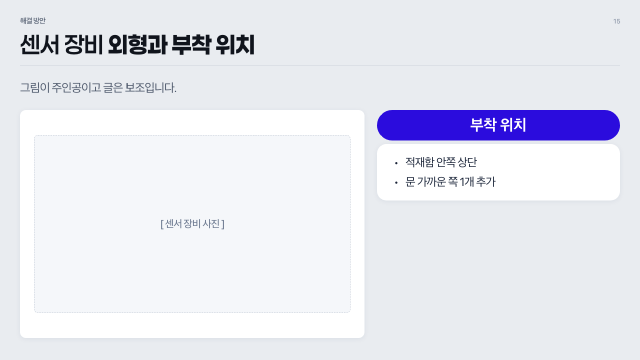
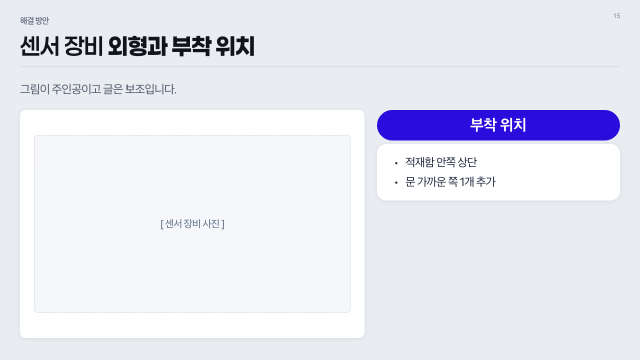
장 번호를 오른쪽 위 모서리(y=22)에 따로 띄움, 아이브로우 15 → 17px·색 한 단계 연하게(--body)

Changed region(s): [[0.0312, 0.0306, 0.4062, 0.1528], [0.0312, 0.2139, 0.2812, 0.275], [0.9375, 0.0306, 0.9688, 0.0611]]

diff --git a/docs/design/index.html b/docs/design/index.html
@@ -335,8 +335,8 @@ tr.dirty .val input{border-color:var(--acc);color:var(--acc)}
 
 .sl-body{background:#E9ECF0}
 .sl-body .top{position:absolute;top:30px;left:var(--pad);right:var(--pad)}
-.sl-body .eyebrow{font-size:var(--eyebrow);color:#4A5568;font-weight:500;display:flex;justify-content:space-between;align-items:baseline}
-.sl-body .eyebrow .pg{font-size:var(--pgno);color:#8B95A7;font-variant-numeric:tabular-nums}
+.sl-body .eyebrow{font-size:var(--eyebrow);color:#515B75;font-weight:500;display:flex;justify-content:space-between;align-items:baseline}
+.sl-body .eyebrow .pg{position:absolute;top:-8px;right:0;font-size:var(--pgno);color:#8B95A7;font-variant-numeric:tabular-nums}
 .sl-body .stitle{font-family:var(--deck-semi);font-weight:400;font-size:var(--stitle);color:#10141C;
   line-height:1.2;margin-top:9px;max-width:1100px;word-break:keep-all}
 .sl-body .stitle b{font-family:var(--deck-xbold);font-weight:400}
@@ -569,7 +569,7 @@ var DEFAULTS={
   density:'dense', k:1,
   primary:'#2B0CDD', secondary:'#5D48FF',
   h0:48,h0l:58.6,h0s:-1, h1:40,h1l:48,h1s:-1, h2:22,h2l:31.8,h2s:-0.2, b2:18,b2l:26.6,b2s:-0.8,
-  eyebrow:15, stitle:46, lead:24, pgno:13,
+  eyebrow:17, stitle:46, lead:24, pgno:13,
   pad:40, safeBottom:44, bodyTop:220,
   rCard:19, rBanner:14, rLabel:8, rPill:999,
   shY:2, shBlur:12, shOp:7,
@@ -759,7 +759,7 @@ function buildSections(){
     {tok:'.eyebrow', name:'아이브로우', sub:'y30 · 섹션 이름 하나만',
       fields:[{key:'eyebrow',unit:'px',min:8,max:40}],
       preview:pvType('배경 및 문제점','--eyebrow','--deck-body',null,'#4A5568')},
-    {tok:'.eyebrow .pgno', name:'쪽 번호', sub:'y30 · 오른쪽 끝',
+    {tok:'.eyebrow .pgno', name:'장 번호', sub:'y22 · 오른쪽 위 모서리 · 몇 번째 장인지',
       preview:pvType('12','--pgno','--deck-body',null,'#8B95A7'),
       fields:[{key:'pgno',unit:'px',min:8,max:40}]},
     {tok:'.stitle', name:'헤드라인', sub:'y61 · Paperlogy 6 SemiBold · 한 줄 한글 34자',
@@ -862,7 +862,7 @@ var FIXED=[
   ['primary-800','#2815B0','진한 단계 · 간지 그라데이션 시작'],['primary-700','#2A14C8','중간 진한 단계'],
   ['primary-600','#2B0CDD','메인'],['primary-400','#5D48FF','보조'],['primary-300','#7B69FF','primary 300'],['primary-200','#9B8EFF','primary 200'],
   ['--page','#E9ECF0','장표 바탕'],['--text','#1A2438','본문 글자'],['--title','#10141C','헤드라인'],
-  ['--body','#515B75','카드 안 소제목'],['--text-mid','#4A5568','아이브로우 · 리드'],['--text-light','#8B95A7','쪽 번호 · 캡션'],
+  ['--body','#515B75','아이브로우 · 카드 안 소제목'],['--text-mid','#4A5568','리드'],['--text-light','#8B95A7','쪽 번호 · 캡션'],
   ['--bg-soft','#F5F7FA','표 헤더 · 그래프 패널'],['--border','#D9DEE6','테두리'],
   ['success','#138A4E','배지 달성'],['warning','#C97A1F','배지 진행중'],['danger','#C9302C','배지 미달']
 ];

diff --git a/skills/ppt-maker/app/design-system.html b/skills/ppt-maker/app/design-system.html
@@ -335,8 +335,8 @@ tr.dirty .val input{border-color:var(--acc);color:var(--acc)}
 
 .sl-body{background:#E9ECF0}
 .sl-body .top{position:absolute;top:30px;left:var(--pad);right:var(--pad)}
-.sl-body .eyebrow{font-size:var(--eyebrow);color:#4A5568;font-weight:500;display:flex;justify-content:space-between;align-items:baseline}
-.sl-body .eyebrow .pg{font-size:var(--pgno);color:#8B95A7;font-variant-numeric:tabular-nums}
+.sl-body .eyebrow{font-size:var(--eyebrow);color:#515B75;font-weight:500;display:flex;justify-content:space-between;align-items:baseline}
+.sl-body .eyebrow .pg{position:absolute;top:-8px;right:0;font-size:var(--pgno);color:#8B95A7;font-variant-numeric:tabular-nums}
 .sl-body .stitle{font-family:var(--deck-semi);font-weight:400;font-size:var(--stitle);color:#10141C;
   line-height:1.2;margin-top:9px;max-width:1100px;word-break:keep-all}
 .sl-body .stitle b{font-family:var(--deck-xbold);font-weight:400}
@@ -569,7 +569,7 @@ var DEFAULTS={
   density:'dense', k:1,
   primary:'#2B0CDD', secondary:'#5D48FF',
   h0:48,h0l:58.6,h0s:-1, h1:40,h1l:48,h1s:-1, h2:22,h2l:31.8,h2s:-0.2, b2:18,b2l:26.6,b2s:-0.8,
-  eyebrow:15, stitle:46, lead:24, pgno:13,
+  eyebrow:17, stitle:46, lead:24, pgno:13,
   pad:40, safeBottom:44, bodyTop:220,
   rCard:19, rBanner:14, rLabel:8, rPill:999,
   shY:2, shBlur:12, shOp:7,
@@ -759,7 +759,7 @@ function buildSections(){
     {tok:'.eyebrow', name:'아이브로우', sub:'y30 · 섹션 이름 하나만',
       fields:[{key:'eyebrow',unit:'px',min:8,max:40}],
       preview:pvType('배경 및 문제점','--eyebrow','--deck-body',null,'#4A5568')},
-    {tok:'.eyebrow .pgno', name:'쪽 번호', sub:'y30 · 오른쪽 끝',
+    {tok:'.eyebrow .pgno', name:'장 번호', sub:'y22 · 오른쪽 위 모서리 · 몇 번째 장인지',
       preview:pvType('12','--pgno','--deck-body',null,'#8B95A7'),
       fields:[{key:'pgno',unit:'px',min:8,max:40}]},
     {tok:'.stitle', name:'헤드라인', sub:'y61 · Paperlogy 6 SemiBold · 한 줄 한글 34자',
@@ -862,7 +862,7 @@ var FIXED=[
   ['primary-800','#2815B0','진한 단계 · 간지 그라데이션 시작'],['primary-700','#2A14C8','중간 진한 단계'],
   ['primary-600','#2B0CDD','메인'],['primary-400','#5D48FF','보조'],['primary-300','#7B69FF','primary 300'],['primary-200','#9B8EFF','primary 200'],
   ['--page','#E9ECF0','장표 바탕'],['--text','#1A2438','본문 글자'],['--title','#10141C','헤드라인'],
-  ['--body','#515B75','카드 안 소제목'],['--text-mid','#4A5568','아이브로우 · 리드'],['--text-light','#8B95A7','쪽 번호 · 캡션'],
+  ['--body','#515B75','아이브로우 · 카드 안 소제목'],['--text-mid','#4A5568','리드'],['--text-light','#8B95A7','쪽 번호 · 캡션'],
   ['--bg-soft','#F5F7FA','표 헤더 · 그래프 패널'],['--border','#D9DEE6','테두리'],
   ['success','#138A4E','배지 달성'],['warning','#C97A1F','배지 진행중'],['danger','#C9302C','배지 미달']
 ];

diff --git a/docs/templates/deck.html b/docs/templates/deck.html
@@ -37,9 +37,9 @@ body{font-family:var(--font);-webkit-font-smoothing:antialiased;color:var(--text
 .slide{width:1280px;height:720px;overflow:hidden;background:var(--page);position:relative;font-size:var(--fs-body);line-height:1.5;letter-spacing:-.8pt;word-break:keep-all;}
 /* top: eyebrow + page no · headline · rule · meta line (minimal, no header strip) */
 .top{position:absolute;top:30px;left:var(--pad);right:var(--pad);z-index:4;}
-.eyebrow{font-size:15px;color:var(--text-mid);font-weight:500;display:flex;justify-content:space-between;align-items:baseline;}
+.eyebrow{font-size:17px;color:var(--body);font-weight:500;display:flex;justify-content:space-between;align-items:baseline;}
 .eyebrow b{color:var(--primary);font-weight:700;}
-.eyebrow .pgno{font-size:13px;color:var(--text-light);font-weight:500;font-variant-numeric:tabular-nums;}
+.eyebrow .pgno{position:absolute;top:-8px;right:0;font-size:13px;color:var(--text-light);font-weight:500;font-variant-numeric:tabular-nums;}   /* 몇 번째 장인지 — 오른쪽 위 모서리에 따로 띄운다 */
 .stitle{font-family:var(--font-title);font-size:46px;font-weight:400;color:var(--title);line-height:1.2;margin-top:9px;word-break:keep-all;overflow-wrap:break-word;max-width:1100px;}
 .stitle b{font-family:var(--font-title-b);font-weight:400;color:var(--title);}
 .rule{height:1px;background:#CFD4DC;margin-top:13px;}

diff --git a/skills/ppt-maker/references/design-system.md b/skills/ppt-maker/references/design-system.md
@@ -12,7 +12,7 @@
 
 - **컬러·글꼴 원본**(2026-10-09): 컬러는 `design-system/colors.json`(primary 800·700·600·400·300·200, 회색, 상태색), 글꼴은 `design-system/fonts.json`. 크기·여백·모서리는 `design-tokens.json`. 메인 = primary 600 `#2B0CDD`, 보조 = primary 400 `#5D48FF`. 메인이 스케일의 600 과 같으면 진한 단계(간지 그라데이션 등)는 스케일의 800·700 을 그대로 쓴다.
 - **팔레트**: 배경 연회색 `--page` #E9ECF0, 카드 흰색 + 그림자 `0 2px 12px rgba(20,40,80,.07)`, `--primary` 포인트 컬러(#2F0CC5 보라, 카드 상단 띠·강조), `--primary-2` 파랑(#1E5BB8, 보조 수치 문장·그래프 선), 연파랑 틴트(`--primary-softer`, 강조 박스·TO-BE 카드), 본문 #1A2438 / 보조 #4A5568. 이모지·그라디언트 텍스트·다중 그림자 금지. Pretendard, 자간 -0.015em~-0.03em(제목).
-- **본문 장표 골격**(1280×720, **좌우 여백 40px** — 사용자 원본 PPTX 기준): 아이브로우 15px(y=30, **그 장표가 속한 목차(섹션) 이름 하나만**, 오른쪽 끝 페이지 번호) → 헤드라인 **34.5pt(46px)** 검정 계열 `--title` #10141C(y=61, `**강조**` 는 같은 색 800 굵기) → 1px 구분선(y=116, 여백 안쪽 전체 너비) → lead 18pt(24px) 회색(y=143, 줄간격 150%) → 본문(카드, 리드 1줄이면 y=220 부터) → 맨 아래 배너 → 출처·각주(있을 때만). 헤더 바 없음. 표지·간지·마무리는 그라디언트 배경.
+- **본문 장표 골격**(1280×720, **좌우 여백 40px** — 사용자 원본 PPTX 기준): 아이브로우 17px(y=30, `--body` #515B75, **그 장표가 속한 목차(섹션) 이름 하나만**) · 장 번호(몇 번째 장인지, 13px `--text-light`)는 아이브로우 줄과 따로 **오른쪽 위 모서리**(y=22)에 → 헤드라인 **34.5pt(46px)** 검정 계열 `--title` #10141C(y=61, `**강조**` 는 같은 색 800 굵기) → 1px 구분선(y=116, 여백 안쪽 전체 너비) → lead 18pt(24px) 회색(y=143, 줄간격 150%) → 본문(카드, 리드 1줄이면 y=220 부터) → 맨 아래 배너 → 출처·각주(있을 때만). 헤더 바 없음. 표지·간지·마무리는 그라디언트 배경.
 - **글자 크기·간격(원본 PPTX 와 동일하게)**: 본문 불릿 17pt·진한 색(`--text`), 카드 안 소제목 16pt 굵게·연한 회색(`--body`), 알약 제목 18pt 굵게 흰색, 배너 라벨 15pt·본문 14pt. **자간은 전부 −0.8pt**(`letter-spacing:-.8pt` / `charSpacing:-0.8`). 불릿 줄높이 1.25, 항목 사이 간격은 0.4~0.9em 에서 자동.
 - **제목 규칙**(2026-09-14): 헤드라인은 **문장이 아니라 명사형으로 끝낸다** — "…세 기능으로 구성", "…24주 일정". "~한다/~합니다/~이다" 금지. 강조는 색이 아니라 굵기로만 준다.
 - **번호 표기**: 목차·간지는 로마숫자 대신 **1·2·3 숫자**(목차 번호 36px 800). `meta.numbering` 은 쓰지 않는다.
